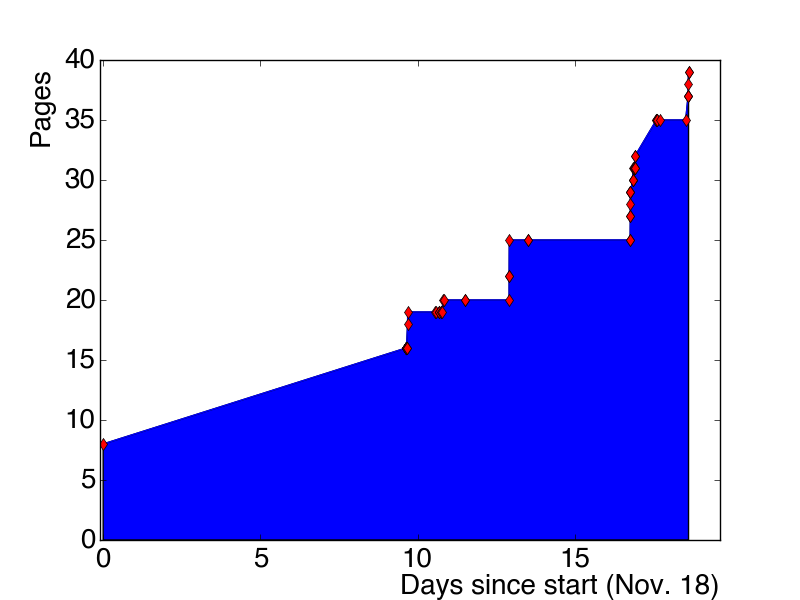
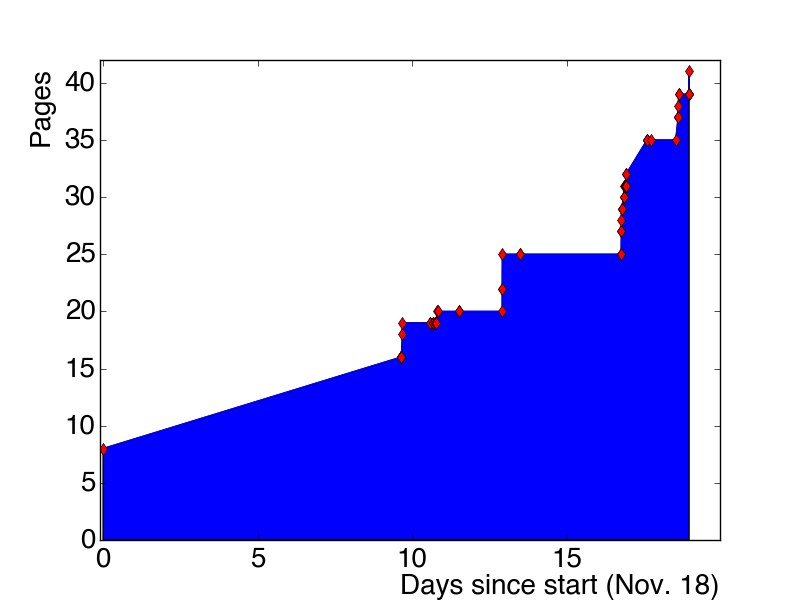
pictures of atlas

diff --git a/tex/experiment.tex b/tex/experiment.tex
@@ -1,4 +1,4 @@
-\chapter[experiment][experiment]{The LHC and the ATLAS detector}
+\chapter[The LHC and the ATLAS detector][The LHC and the ATLAS detector]{The LHC and the ATLAS detector}
 
 \begin{quote}
   The LHC and ATLAS detector are described.
@@ -23,6 +23,20 @@
 
 \section{The ATLAS detector}
 \label{sec:atlas}
+
+\begin{figure}[tp]
+  \centering
+  \includegraphics[width=0.90\textwidth]{figures/lhc-atlas/atlas-0803012_01.jpg}
+  \caption{Variables.}
+  \label{fig:atlas-cartoon}
+\end{figure}
+
+\begin{figure}[tp]
+  \centering
+  \includegraphics[width=0.90\textwidth]{figures/lhc-atlas/atlas-wedge-1301009_01.jpg}
+  \caption{Variables.}
+  \label{fig:atlas-wedge}
+\end{figure}
 
 \begin{figure}[tp]
   \centering

diff --git a/pages.md b/pages.md
@@ -64,3 +64,8 @@
 + [2014-12-06-14h26m37s] 38
 + [2014-12-06-14h32m46s] 39
 + [2014-12-06-14h33m04s] 39
++ [2014-12-06-22h35m30s] 39
++ [2014-12-06-22h39m08s] 39
++ [2014-12-06-22h39m31s] 39
++ [2014-12-06-22h40m20s] 39
++ [2014-12-06-22h41m21s] 41
